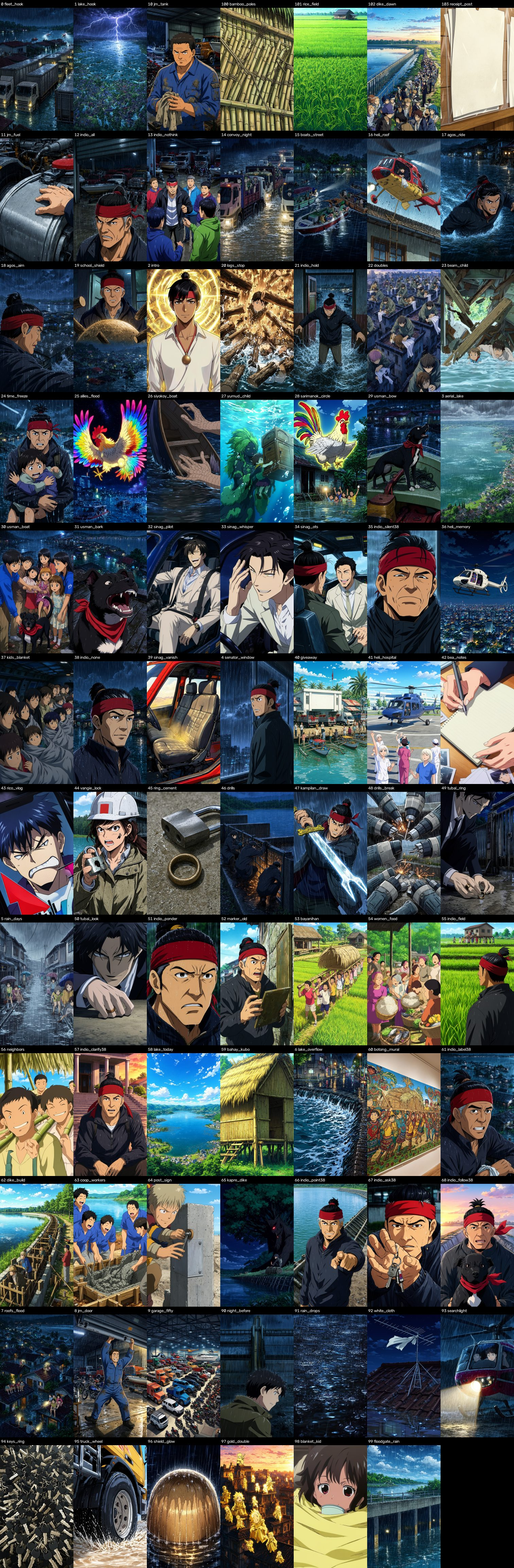
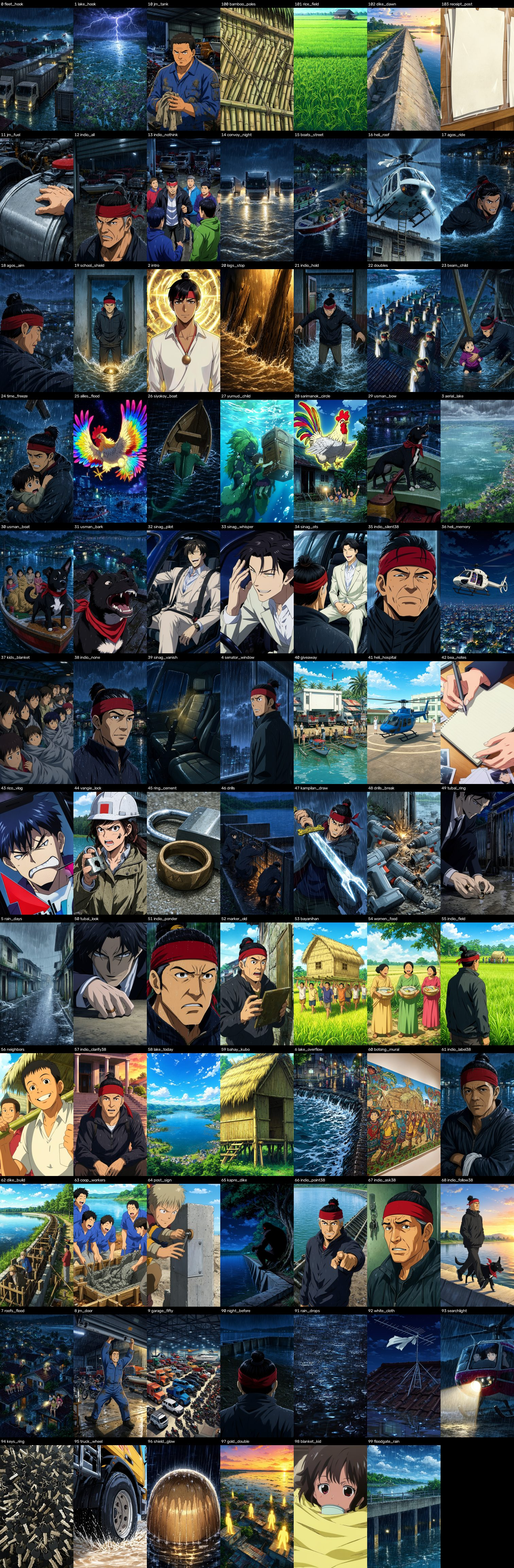
Episode 38 quality pass done (29 of 29 fixed); assemble --cuts and the builder's sentence id for narration cuts
ms.py assemble takes --cuts videos/<slug>/narration_cuts.json: the cut sentences are left out
(checked against the plan's text), the pause before the next spoken line follows that line,
and timings carry each sentence's own index as 'id'. build_anime.py looks up the keyframe and
shots_fx by that id, so a cut does not shift later pictures; timings without 'id' build as before.

Claude-Session: https://claude.ai/code/session_014Q6YnoEzX9bf6vZsgesxHc

diff --git a/history-indio/pipeline/voice_clone/ms.py b/history-indio/pipeline/voice_clone/ms.py
@@ -284,7 +284,7 @@ def ebu(x, sr):
     import soundfile as sf
     sf.write(FI, x, sr, subtype='FLOAT'); o = subprocess.run(['ffmpeg', '-nostats', '-i', FI, '-af', 'ebur128=peak=true', '-f', 'null', '-'], capture_output=True, text=True).stderr
     o = o[o.rindex('Summary:'):]; g = lambda k: float(o.split(k)[1].split()[0]); return g('I:'), g('LRA:'), g('Peak:')
-def assemble(work, outp):
+def assemble(work, outp, cuts=None):
     """Same master as assemble.py (per-tone level, slow-down of rushed takes, -17.4 LUFS, true peak under -1.2 dBFS). The match EQ
     to the user's recording is applied to Indio's lines only, so the designed voices keep their own colour."""
     import soundfile as sf, librosa, scipy.signal as sg, vqc
@@ -292,7 +292,18 @@ def assemble(work, outp):
     LEVEL, LDEF = VP.PROFILE['level_db'], VP.PROFILE['level_default_db']; TARGET, TP_MAX = VP.PROFILE['target_lufs'], -1.2; SR = 48000
     import leadtrim
     segs = []; tim = {}; rows = []; ntrim = 0
-    for c in P['chunks']:
+    drop = set()                                                                    # narration_cuts.json (13 Nov ruling): sentences left out of the narration
+    if cuts:
+        nw = lambda t: ' '.join(vqc.norm_words(t))
+        for e in json.load(open(cuts)).get('cut', []):
+            i = e['index']
+            if i >= len(S) or nw(S[i]['text']) != nw(e['text']): sys.exit('cut %d does not match the plan: %r' % (i, e['text'][:60]))
+            drop.add(i)
+        part = [c['id'] for c in P['chunks'] if drop & set(c['sent_ids']) and not set(c['sent_ids']) <= drop]
+        if part: sys.exit('cut splits chunk(s) %s: re-plan them first' % part)
+        print('cut: sentences %s left out' % sorted(drop))
+    keep = [c for c in P['chunks'] if not set(c['sent_ids']) <= drop]
+    for c in keep:
         ch = CH.get(str(c['id']))
         if not ch: sys.exit('chunk %d has no take: run gen_ms.py and ms.py qc first' % c['id'])
         m = json.load(open(ch['wav'][:-4] + '.json')); y, sr = sf.read(ch['wav'], dtype='float32'); assert sr == SR
@@ -317,7 +328,7 @@ def assemble(work, outp):
             n = len(vqc.norm_words(S[si]['say'])); ws = W[j:j + n]; j += n; a0, a1 = (ws[0][1] - st) / k, (ws[-1][2] - st) / k
             a0 = 0.0 if not offs else min(a0, offs[-1][2] + GAP_SENT)   # chunk's first sentence starts with its audio (the aligner places a leading word late); later ones no later than previous end + pause
             offs.append((si, a0, a1))
-        nxt = P['chunks'][c['id'] + 1] if c['id'] + 1 < len(P['chunks']) else None
+        k_ = keep.index(c); nxt = keep[k_ + 1] if k_ + 1 < len(keep) else None      # the next chunk that is spoken (a cut chunk leaves no gap of its own)
         gap = 0.0 if nxt is None else (GAP_SCENE if nxt['para'] != c['para'] else GAP_TURN if nxt['turn'] != c['turn'] else GAP_SENT) + 0.03 * (((c['id'] * 37) % 5) - 2) / 2
         if nxt is not None: gap = max(gap, S[c['sent_ids'][-1]].get('pause') or 0)
         segs.append(dict(c=c, y=seg, offs=offs, gap=gap)); rows.append((c['id'], c['speaker'], os.path.basename(ch['wav'])[-6:-4], m['rate'], round(k, 3), round(g, 1)))
@@ -349,7 +360,7 @@ def assemble(work, outp):
         I, L, TP = ebu(librosa.load(outp + '.mp3', sr=sr, mono=True)[0], sr); print('mp3: %.2f LUFS, LRA %.1f LU, true peak %.2f dBFS' % (I, L, TP))
         if abs(I - TARGET) <= 0.1: break
         gdb += TARGET - I; y = master(y0, gdb)
-    T = [{'text': S[i]['text'], 'start': round(tim[i][0], 3), 'end': round(tim[i][1], 3), 'style': S[i]['style'], 'speaker': S[i]['speaker']} for i in sorted(tim)]
+    T = [{'id': i, 'text': S[i]['text'], 'start': round(tim[i][0], 3), 'end': round(tim[i][1], 3), 'style': S[i]['style'], 'speaker': S[i]['speaker']} for i in sorted(tim)]
     json.dump(T, open(outp + '_timings.json', 'w'), ensure_ascii=False, indent=1)
     print('stray-sound trims: %d of %d chunks' % (ntrim, len(rows)))
     print('chunks:', rows); print('assembled %d chunks, %d sentences, %.1f s -> %s.mp3' % (len(rows), len(T), len(y) / sr, outp))
@@ -373,7 +384,7 @@ if __name__ == '__main__':
     cmd = sys.argv[1]; x = sys.argv[2:]
     if cmd == 'plan': plan(x[0], x[1])
     elif cmd == 'qc': qc(x[0], '--full' in x)
-    elif cmd == 'assemble': assemble(x[0], x[1])
+    elif cmd == 'assemble': assemble(x[0], x[1], x[x.index('--cuts') + 1] if '--cuts' in x else None)
     elif cmd == 'verify': verify(x[0], x[1])
     elif cmd == 'fixstarts': sys.exit(1 if fixstarts(x[0], int(x[x.index('--max') + 1]) if '--max' in x else 3, '--leadin' in x) else 0)
     elif cmd == 'numbers': sys.exit(1 if numbers(x[0], '--all' in x) else 0)

diff --git a/history-indio/pipeline/build_anime.py b/history-indio/pipeline/build_anime.py
@@ -139,11 +139,12 @@ paths = [os.path.join(kdir, f'k{i:02d}.png') for i in range(max(len(tim), 200))]
 total = tim[-1]['end'] + 0.8; shots = []
 for i, s in enumerate(tim):
     start = 0.0 if i == 0 else s['start']; end = tim[i + 1]['start'] if i + 1 < len(tim) else total
-    cfg = FX.get(str(i), {}); mv = cfg.get('move', MOVES[i % len(MOVES)]); fx = list(cfg.get('fx', []))
+    sid = s.get('id', i)                                                                     # the sentence's own index (timings made with a narration cut skip some)
+    cfg = FX.get(str(sid), {}); mv = cfg.get('move', MOVES[sid % len(MOVES)]); fx = list(cfg.get('fx', []))
     if 'punch' in fx or 'shake' in fx: fx += [f for f in ('speedlines', 'impact') if f not in fx]      # action beats get the full anime treatment
     if cfg.get('depth') == 'strong' or mv in depth3d.MOVES3D:                                # 3D perspective (opt-in): layered depth camera, see depth3d.py
         fx += ['3d'] + (['dof:' + cfg['dof']] if cfg.get('dof') in ('far', 'near') else []) + (['rack:far'] if cfg.get('focus_to') == 'far' else [])
-    i = cfg.get('key', i)                                                                    # reuse another line's keyframe
+    i = cfg.get('key', sid)                                                                  # reuse another line's keyframe
     if cfg.get('clip'):                                                                      # a ready-made moving clip (e.g. a Blender action shot) plays for this line
         shots.append((i, start, end, 'hold', fx, 1.0, (0.5, 0.5), os.path.join(vdir, cfg['clip']))); continue
     if cfg.get('keys'):                                                                      # montage: several keyframes inside one line (cold open)
